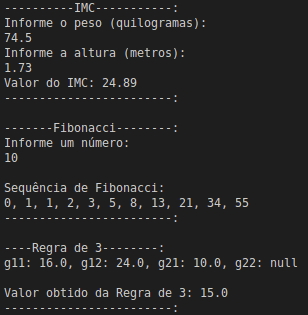
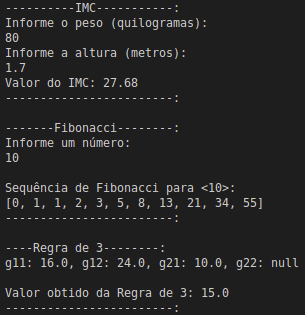
Refactor Fibonacci sequence function to functional paradigm

diff --git a/challenge-01/lib/functions/calculate_fibonacci.dart b/challenge-01/lib/functions/calculate_fibonacci.dart
@@ -1,10 +1,14 @@
-/// Calcula o número de Fibonacci para o [value] informado.
+/// Calcula a sequência de Fibonacci para o [value] informado.
+/// Recebe a lista com a [sequence], inicialmente preenchida com os dois valores
+/// iniciais da sequencia.
 /// 
-/// Retorna o [int] do valor calculado.
-int calculateFibonacci(int value) {
-  if (value == 0) return 0;
+/// Retorna uma lista de inteiros com a sequência de Fibonacci.
+List<int> calculateFibonacci(int value, List<int> sequence) {
+  if (value == 0) return [0];
+  if (value == 1 || value == (sequence.length - 1)) return sequence;
   
-  if (value == 1 || value == 2) return 1;
-
-  return calculateFibonacci(value - 1) + calculateFibonacci(value - 2);
+  sequence.add(
+    sequence[sequence.length - 1] + sequence[sequence.length - 2]);
+  
+  return calculateFibonacci(value, sequence);
 }

diff --git a/challenge-01/lib/main.dart b/challenge-01/lib/main.dart
@@ -51,15 +51,8 @@ void main() {
   }
 
   if (number >= 0) {
-    String sequence = '';
-
-    for (var i = 0; i <= number; i++) {
-      int numFib = calculateFibonacci(i);
-      sequence += '$numFib, ';
-    }
-
-    stdout.writeln('\nSequência de Fibonacci:');
-    stdout.writeln(sequence.substring(0, sequence.length - 2));
+    stdout.writeln('\nSequência de Fibonacci para <$number>:');
+    stdout.writeln(calculateFibonacci(number, [0, 1]));
   } else {
     stdout.writeln('Valor inválido!');
   }
